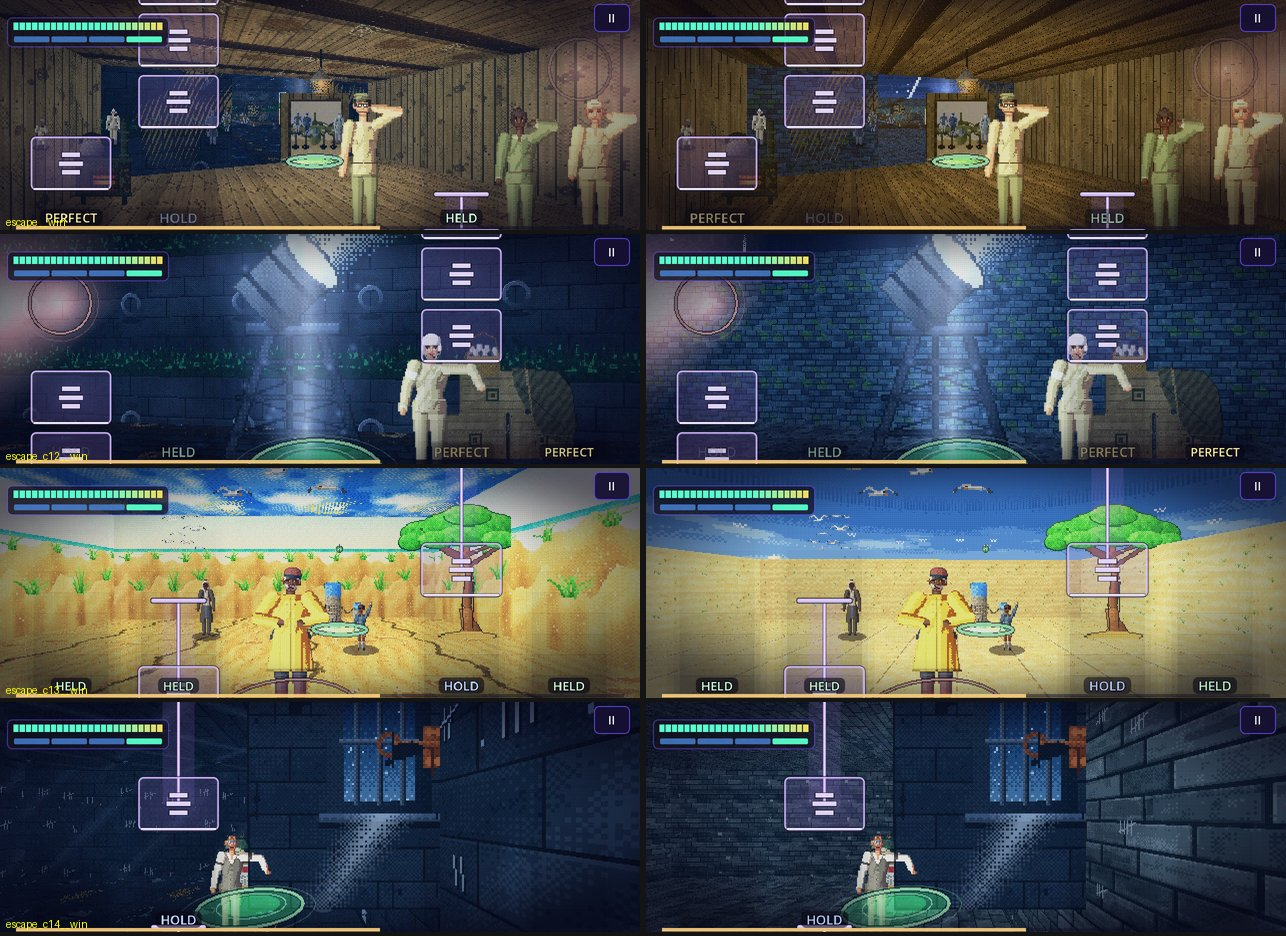
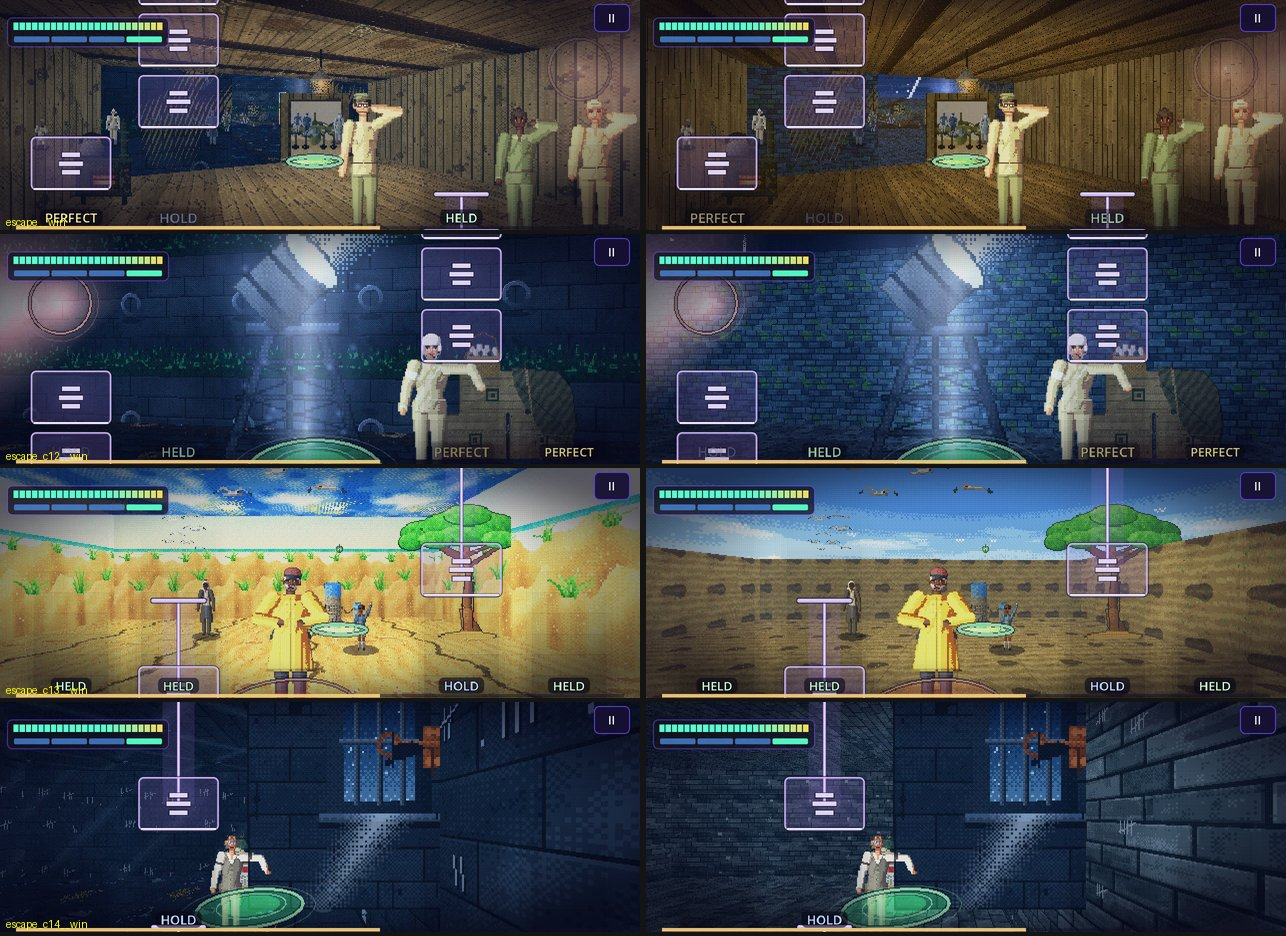
Squadron art: coast sand and dunes with shade and a sunlit tone, final shots and checks (docs/shots/art/w7)

Changed region(s): [[0.4977, 0.4957, 1.0, 0.7436], [0.6221, 0.9605, 0.6532, 0.9915], [0.6221, 0.4647, 0.6532, 0.4957]]

diff --git a/tools/paths/squadron_harbour.py b/tools/paths/squadron_harbour.py
@@ -79,7 +79,7 @@ def build():
     qy.actor("dock3", "civilian_city", "b", 4.0, 3.0)
 
     # ---- the neutral coast (C13) ------------------------------------------------------------------------------------------------------------------------------------
-    co = mb.room("coast", (22, 0, 44, 14), -90, "coast", floor_tex=floor_sand, ceil_tex="sky", sky="day", fog={"color": "#7c96ae", "density": 0.006}, wall_tex=wall_dunes, ceiling=2.6, light=0.62, tint="#f4ecd8", activities=QUIET_STAND)
+    co = mb.room("coast", (22, 0, 44, 14), -90, "coast", floor_tex=floor_sand, ceil_tex="sky", sky="day", fog={"color": "#7c96ae", "density": 0.006}, wall_tex=wall_dunes, ceiling=2.6, light=0.5, tint="#f4ecd8", activities=QUIET_STAND)
     co.standard_rail("c13", home=(2.2, 0), good=((5.0, -1.5), (9.0, 1.0)), bad=((1.5, 3.5), (2.8, -3.5)), arrive=(0.7, 0))
     co.wp("c13_x_up", 17.0, 0.0, 0)  # the shore
     co.thing("shore_boat", T("thing_shore_boat", "billboard", "the small fishing boat pulled up on the sand in bright sun, blue and white paint, nets drying, 256x128", 1.0, 256), 12.0, -3.2, 0.9, 2.2)
@@ -90,7 +90,7 @@ def build():
     co.thing("nets_dry", "thing_nets", 9.0, -5.6, 0.9, 1.8)
     co.thing("shore_post", T("thing_wooden_post", "billboard", "a weathered wooden jetty post with a coil of rope and a bright blue-painted top", 1.0, 128), 19.5, 2.4, 0.9, 1.8)
     co.thing("sun_umbrella", T("thing_sunshade", "billboard", "a faded orange-and-white beach sunshade over a little table with a jug and cups", 1.0, 128), 7.0, 4.2, 1.0, 2.0)
-    co.light("lt_coast_sun", 10.0, 0.0, 8.0, 30.0, "#fff2c0", 1.1)
+    co.light("lt_coast_sun", 10.0, 0.0, 8.0, 30.0, "#fff2c0", 1.0)
     co.actor("fish_c", "fisherman", "a", 14.5, 1.2, fixed=True, same_as="fish", activity="stand")
     co.actor("quay_w", "civilian_city", "b", 18.5, -1.6, fixed=True, activity="stand")
     co.actor("kid_q", "civilian_city", "c", 17.0, 2.6, activity="stand")

diff --git a/tools/story/art/tex_squadron_surfaces.py b/tools/story/art/tex_squadron_surfaces.py
@@ -145,7 +145,7 @@ WETSTONE = ramp("#0c1624", "#16273c", "#243d58", "#365876", "#4f7694", "#76a0b6"
 WEED = ramp("#102418", "#1c3e26", "#2c5c36", "#42804a", "#68a860")
 SHED = ramp("#0c1a30", "#16294a", "#243f68", "#38598a", "#5479a8", "#7c9fc4")
 CELLG = ramp("#12161a", "#212a30", "#364249", "#4f5e66", "#6f808a", "#98a8b0")
-SANDC = ramp("#3a2814", "#58401f", "#7c5c30", "#a08040", "#c4a458", "#ecd496")
+SANDC = ramp("#4a3418", "#6c4e28", "#947038", "#bc9a4e", "#dcc072", "#f6e8ae")
 MARR = ramp("#3e5622", "#5e7a2c", "#84a43c", "#b0cc62")
 QUAYC = ramp("#0e1620", "#1a2634", "#2c3d50", "#445a72", "#62809a", "#88a8bc")
 
@@ -618,7 +618,7 @@ def wall_dunes():
     x, y = grid(n)
     ripple = 0.5 + 0.5 * np.sin((y / n) * 6.2832 * 5 + 3.0 * noise(n, 40, 511, 3))
     sh = 0.55 + 0.2 * ripple + 0.2 * (noise(n, 30, 512, 4) - 0.5) * 2 + 0.06 * _fine(n, 513)
-    sh = sh - 0.45 * (noise(n, 44, 516, 3) > 0.62) + 0.1 * (noise(n, 20, 517, 3) > 0.72)
+    sh = sh - 0.4 * (noise(n, 60, 516, 2) > 0.7) + 0.1 * (noise(n, 20, 517, 3) > 0.72)
     rgb = _q(sh, SANDC, 0.8)
     rng = _R(514)
     for _ in range(9):  # tufts of marram grass
@@ -635,7 +635,7 @@ def floor_sand():
     x, y = grid(n)
     ripple = 0.5 + 0.5 * np.sin(((x + 14 * noise(n, 30, 521, 3)) / n) * 6.2832 * 4)
     sh = 0.55 + 0.2 * ripple + 0.2 * (noise(n, 22, 522, 4) - 0.5) * 2 + 0.07 * _fine(n, 523)
-    sh = sh - 0.4 * (noise(n, 44, 526, 3) > 0.62) + 0.1 * (noise(n, 20, 527, 3) > 0.72)  # the shade of a pine and the sun's glare
+    sh = sh - 0.42 * (noise(n, 60, 526, 2) > 0.7) + 0.1 * (noise(n, 20, 527, 3) > 0.72)  # the shade of a pine and the sun's glare
     rgb = _q(sh, SANDC, 0.8)
     rng = _R(524)
     for _ in range(26):  # tiny shells
